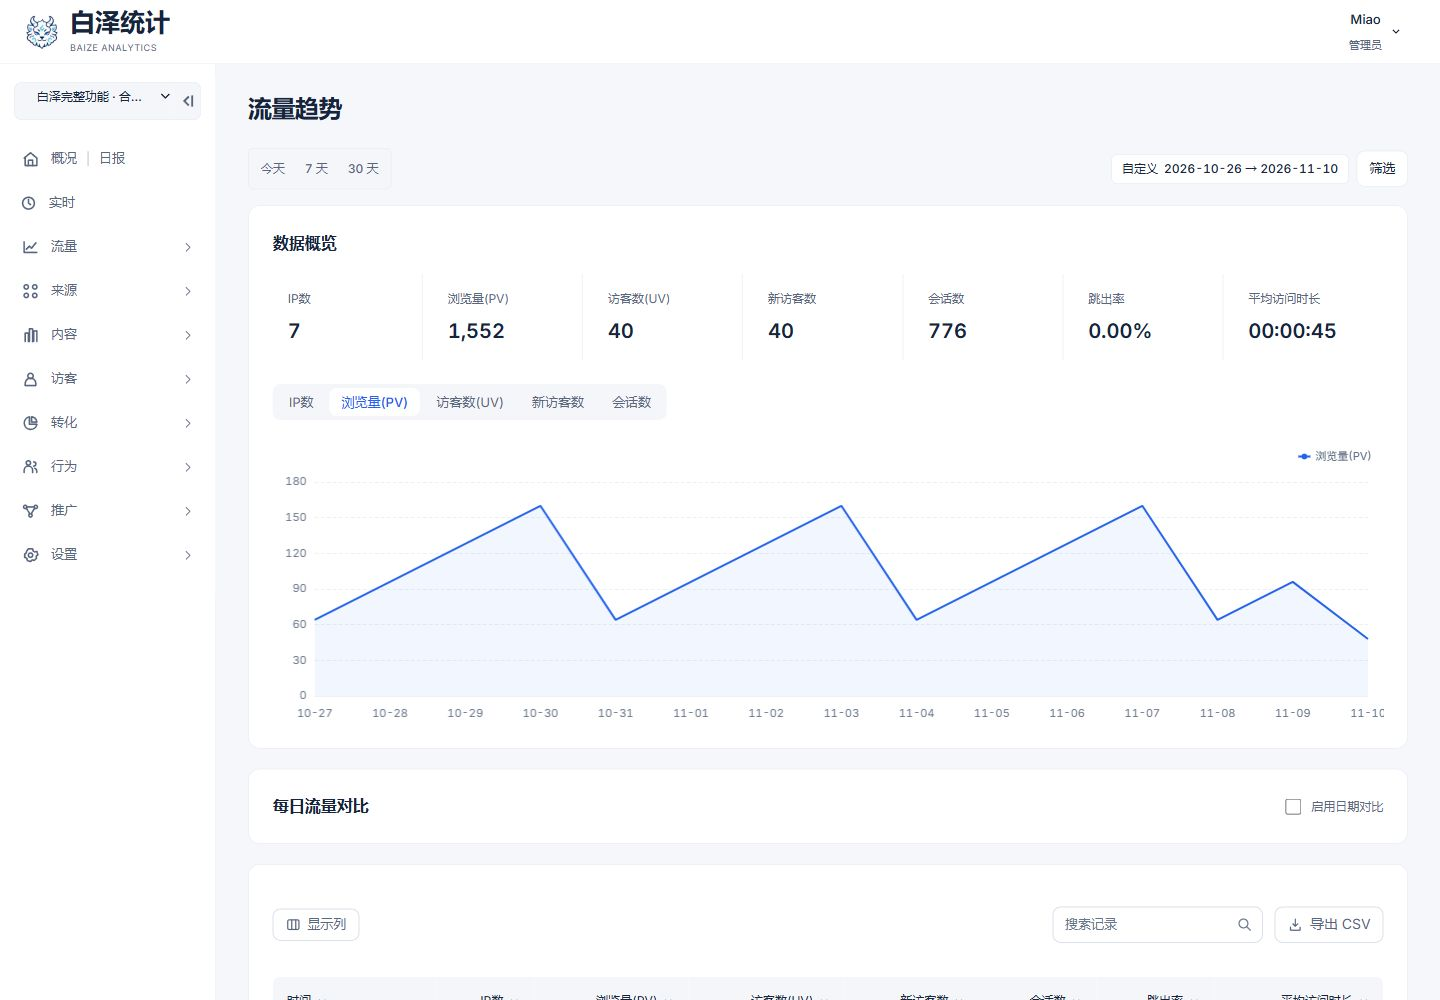
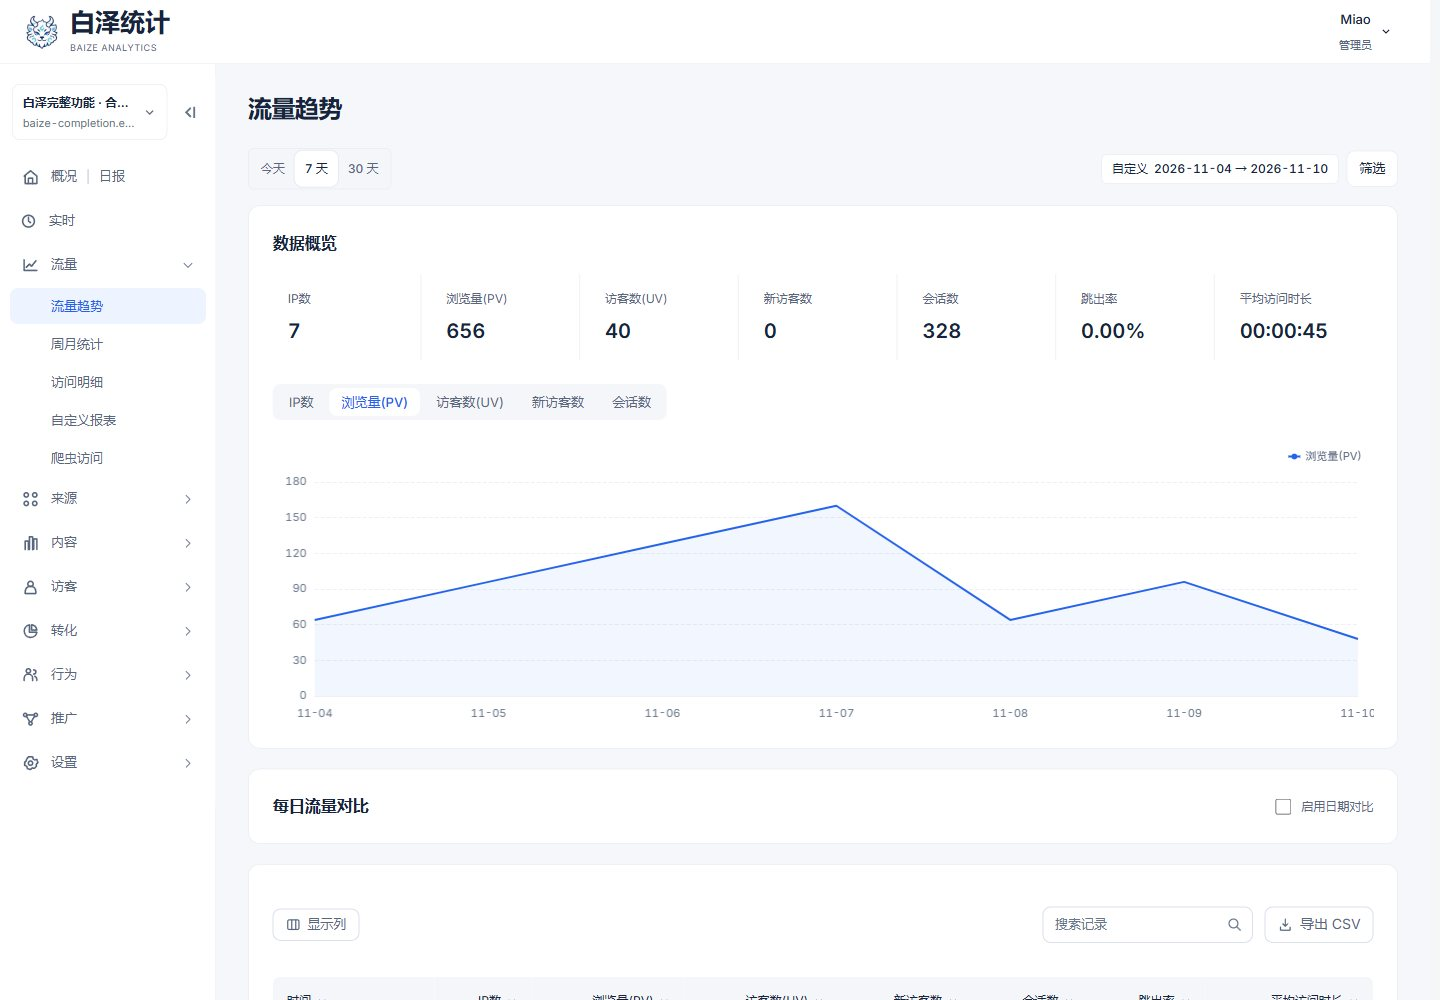
docs: update UI screenshots and record navigation performance checks

diff --git a/docs/validation/BAIZE_NAVIGATION_PERFORMANCE_20261110.md b/docs/validation/BAIZE_NAVIGATION_PERFORMANCE_20261110.md
@@ -1,0 +1,44 @@
+# 页面加载与切换验收
+
+源码：`765647ac1b0c9fbd0b88891fcd2ab9943d61759c`。
+
+NAS 镜像：`sha256:74ed450a52dac3717ecfed8ca3b953e7e34870b24c11a83afc37b6eb6278f506`。最后复验时间为 2026-11-11（Asia/Shanghai），数据与 Docker 存储仍位于原 NVMe 固态盘。
+
+## 修改范围
+
+- 站点选择器改为名称、域名两行，折叠导航独立成按钮；保留原生选择器、键盘操作和手机抽屉。
+- 构建时生成 gzip/Brotli；哈希资源长期缓存，HTML 不缓存，主题脚本重新验证。
+- 按完整 URL 缓存报表 10 秒，最多 32 条；并发请求合并。手动刷新、写入、会话失效和账号变化有独立失效规则。
+- 图表复用实例和画布，首个空配置安全处理；首帧提前应用已选主题。
+- Standard 概况的摘要、趋势、地域与主统计并行读取，主统计不再阻塞整个页面。
+- 只在有预算限制的 PostgreSQL 统计读取中关闭 JIT，离开时恢复原设置；恢复失败则销毁连接。数据库全局配置、原有超时和读取预算保持原值。
+
+## 自动检查
+
+- 15 个单元回归文件、109 项通过：路由、日期、缓存、失效、图表生命周期、概况加载、静态资源及统计预算。
+- NAS PostgreSQL 集成检查 17 项通过，其中 5 项专门覆盖 JIT/超时设置恢复，12 项覆盖网络 IP 统计。
+- TypeScript、ESLint 和生产构建通过。
+- 压缩文件解压后逐字节匹配原文件，验证了条件请求、无正文的 304、缺失资源 404 和缓存响应头。
+
+## 浏览器范围
+
+使用实际 NAS Node 标准版和独立合成测试站点。检查 1440px、1024px 桌面与 375px、320px 手机布局、站点选择、导航抽屉、深浅主题及图表指标切换。图表指标切换前后为同一个 canvas 节点；手机页面没有横向溢出。深色主题刷新后仍为深色，最终浏览器会话没有新增控制台错误。
+
+加载完成后立即在流量趋势与概况之间往返，概况首帧保留完整数字，无整页 loading；主统计、摘要、趋势和地域没有重复请求。目标、漏斗定义与上一周期统计仍正常读取，未把所有请求都声称为零。
+
+## NAS 实测
+
+| 项目 | 结果 |
+| --- | --- |
+| 首屏 JS/CSS 原始传输 | 1,625,455 B |
+| gzip / Brotli 传输 | 491,002 B / 428,836 B |
+| 七天单条统计 SQL，JIT 开 / 关 | 724.5 ms / 18.8 ms |
+| 七路冷并发，包括重复统计、摘要与趋势 | 全部不超过 1.95 秒 |
+| 缓存命中的两路统计并发 | 20 ms / 24 ms |
+| 原有三个站点数据 | 3,444 条事件，站点及事件摘要前后一致 |
+
+六次统计响应与修复前完整结果对照，稳定指标完全相同；排除随时钟变化的执行元数据和留存成熟状态文案。浏览器刷新到可见摘要约 2 秒，此为一次含浏览器操作开销的观测，不作为稳定 SLA。
+
+## 性能边界
+
+此轮优先修复资源交付、重复请求、图表重建、串行等待，以及统计 SQL 的编译开销。使用 NAS 上的合成数据测量，不将单条 SQL 的加速比例等同于整个产品所有报表的加速比例。首次未缓存的大范围统计仍取决于数据量和服务器负载。

diff --git a/docs/images/README.md b/docs/images/README.md
@@ -1,13 +1,13 @@
 # 界面截图与来源
 
-拍摄日期：2026-11-10（Asia/Shanghai）。运行环境为 NAS 固态硬盘上的 Node 标准版、PostgreSQL 17 和 Redis 7。图片为实际浏览器截图，没有替换接口结果、注入样式或后期修改页面内容。
+最新截图拍摄日期：2026-11-11（Asia/Shanghai）；保留的较早截图拍摄于 2026-11-10。运行环境为 NAS 固态硬盘上的 Node 标准版、PostgreSQL 17 和 Redis 7。图片为实际浏览器截图，没有替换接口结果、注入样式或后期修改页面内容。
 
 ## 本轮最终截图
 
-源码提交：`760bbb7dac2f223655b642b5e8e7f0263fd3e685`。
+源码提交：`765647ac1b0c9fbd0b88891fcd2ab9943d61759c`。
 
 ```text
-镜像 sha256:5e6a8d00dc12de76bbcb9abb3b615284b42974582629ace65162cdd1558170f1
+镜像 sha256:74ed450a52dac3717ecfed8ca3b953e7e34870b24c11a83afc37b6eb6278f506
 ```
 
 | 图片 | JPG 实际像素 | 内容 |
@@ -15,7 +15,7 @@
 | [baize-reports-desktop.jpg](baize-reports-desktop.jpg) | 1440 × 1000 | 桌面流量趋势、指标切换与日期比较入口 |
 | [baize-settings-mobile.jpg](baize-settings-mobile.jpg) | 375 × 900 | 手机站点设置、站点信息与追踪代码区域 |
 
-本轮统一工作台、设置与共享页的蓝白及暗色样式，精简重复入口和说明。完整范围、108 项单元回归、67 项 NAS 接口验收及未覆盖边界见 [全页面界面验收](../validation/BAIZE_ALL_PAGES_UI_20261110.md)。
+新版站点选择器显示名称与域名，折叠按钮独立放置。页面加载、图表复用和最新验证见 [加载与切换验收](../validation/BAIZE_NAVIGATION_PERFORMANCE_20261110.md)；较早的全页面统一记录见 [全页面界面验收](../validation/BAIZE_ALL_PAGES_UI_20261110.md)。
 
 ## 保留的概况截图
 
@@ -37,8 +37,8 @@
 图片 SHA-256：
 
 ```text
-425835250636ed051a38b4f5baabd6cb55d3c364c7e04ada81fb590aacefcc34  baize-reports-desktop.jpg
-364b7f994df5bca70c4678ba2ba75ff8a09d5a83fa4a5b37df2541403a34a190  baize-settings-mobile.jpg
+86f2eb08d8c31c2eaf505e066d5bf81cf0574cfa197699a5057076c6d70e98bc  baize-reports-desktop.jpg
+e7dd64e7c2ca3bd1ad868b3e48b05440fbd5f04b3f7c264cc8bb081dca7fc75e  baize-settings-mobile.jpg
 8df5bcc2dfbd576ce5ed5a162ddf88a54cbc19558ebb647eca1b8c871ee60c38  baize-desktop.jpg
 7d2f9c1d4bbb73bc66031a0ac93f8f1795c976cd4a58edd31168316b872b30b0  baize-mobile.jpg
 ```

diff --git a/README.en.md b/README.en.md
@@ -25,7 +25,7 @@ Baize is under active development. [Bug reports and suggestions](https://github.
 
 Traffic reports, visitor analysis and site settings share the same Baize interface, with light, dark and mobile layouts. Common filters sit above reports, while advanced configuration expands when needed.
 
-These screenshots show the current Node Standard application using a separate demonstration site's data. [Capture details](docs/images/README.md) · [UI validation](docs/validation/BAIZE_ALL_PAGES_UI_20261110.md) · [Feature matrix](docs/51LA_FUNCTION_MATRIX.md) (Chinese)
+These screenshots show the current Node Standard application using a separate demonstration site's data. [Capture details](docs/images/README.md) · [UI validation](docs/validation/BAIZE_ALL_PAGES_UI_20261110.md) · [Loading and navigation](docs/validation/BAIZE_NAVIGATION_PERFORMANCE_20261110.md) · [Feature matrix](docs/51LA_FUNCTION_MATRIX.md) (Chinese)
 
 **Desktop traffic report**
 

diff --git a/README.md b/README.md
@@ -25,7 +25,7 @@
 
 流量报表、访客分析和站点设置使用统一的白泽界面，支持浅色、深色及手机布局。常用筛选放在报表顶部，高级配置按需展开。
 
-以下为当前 Node 标准版的实际运行截图，使用独立演示站点数据。[截图说明](docs/images/README.md) · [界面验收](docs/validation/BAIZE_ALL_PAGES_UI_20261110.md) · [功能对照](docs/51LA_FUNCTION_MATRIX.md)
+以下为当前 Node 标准版的实际运行截图，使用独立演示站点数据。[截图说明](docs/images/README.md) · [界面验收](docs/validation/BAIZE_ALL_PAGES_UI_20261110.md) · [加载与切换](docs/validation/BAIZE_NAVIGATION_PERFORMANCE_20261110.md) · [功能对照](docs/51LA_FUNCTION_MATRIX.md)
 
 **桌面流量报表**
 
